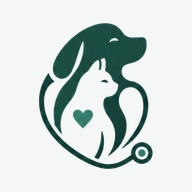
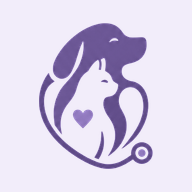
Tema roxo pastel e crédito no rodapé
- Paleta trocada para roxo pastel, mantendo contraste legível nos botões
- Logo do cabeçalho, favicon e ícones de app recoloridos no roxo do tema
- "Desenvolvido por Junior" no rodapé com link para carlindojunior.xyz

Changed region(s): [[0.1875, 0.0938, 0.8125, 0.9062], [0.375, 0.5625, 0.5, 0.6875]]

diff --git a/src/presentation/sections/Footer.tsx b/src/presentation/sections/Footer.tsx
@@ -20,19 +20,32 @@ export function Footer() {
           <br />
           {practice.areas.map((area) => area.name).join(', ')}, BA
         </p>
-        <p>
-          <a href={links.whatsapp()} target="_blank" rel="noopener noreferrer">
-            WhatsApp {contacts.whatsapp.display}
-          </a>
-          <br />
-          <a href={links.instagram} target="_blank" rel="noopener noreferrer">
-            Instagram {contacts.instagram.display}
-          </a>
-          <br />
-          <a href={veterinarian.linkedinUrl} target="_blank" rel="noopener noreferrer">
-            LinkedIn
-          </a>
-        </p>
+        <div>
+          <p>
+            <a href={links.whatsapp()} target="_blank" rel="noopener noreferrer">
+              WhatsApp {contacts.whatsapp.display}
+            </a>
+            <br />
+            <a href={links.instagram} target="_blank" rel="noopener noreferrer">
+              Instagram {contacts.instagram.display}
+            </a>
+            <br />
+            <a href={veterinarian.linkedinUrl} target="_blank" rel="noopener noreferrer">
+              LinkedIn
+            </a>
+          </p>
+          <p className="mt-8 text-sm text-white/60">
+            Desenvolvido por{' '}
+            <a
+              href="https://www.carlindojunior.xyz/"
+              target="_blank"
+              rel="noopener"
+              className="font-semibold underline-offset-3 hover:underline"
+            >
+              Junior
+            </a>
+          </p>
+        </div>
       </div>
     </footer>
   )

diff --git a/src/index.css b/src/index.css
@@ -1,18 +1,19 @@
 @import "tailwindcss";
 
 @theme {
-  --color-paper: #F4F7F6;
-  --color-paper-2: #E7EFEC;
-  --color-ink: #1D2B2F;
-  --color-ink-soft: #4A5B5F;
-  /* Verdes tirados da logo */
-  --color-brand: #24604F;
-  --color-brand-deep: #1B4B40;
-  --color-mint: #8FCBB4;
-  --color-wine: #7E1A2C;
-  --color-blush: #F1B9CF;
+  /* Tema roxo pastel (versão anterior em verde: brand #24604F, brand-deep #1B4B40) */
+  --color-paper: #FAF8FD;
+  --color-paper-2: #F2EDFA;
+  --color-ink: #2B2438;
+  --color-ink-soft: #5F566F;
+  /* Mais claro possível mantendo texto branco legível (contraste ≥ 4.5:1) */
+  --color-brand: #8566B8;
+  --color-brand-deep: #6A5494;
+  --color-mint: #E2D6F7;
+  --color-wine: #9A5A8E;
+  --color-blush: #F8D7EB;
   --color-orchid: #B8478F;
-  --color-line: #CFDCD8;
+  --color-line: #E4DCF0;
 
   --font-display: "Bricolage Grotesque", "Trebuchet MS", sans-serif;
   --font-body: "Figtree", system-ui, sans-serif;

diff --git a/index.html b/index.html
@@ -3,7 +3,7 @@
   <head>
     <meta charset="UTF-8" />
     <meta name="viewport" content="width=device-width, initial-scale=1" />
-    <meta name="theme-color" content="#1B4B40" />
+    <meta name="theme-color" content="#6A5494" />
     <link rel="icon" href="/img/favicon-32.png" sizes="32x32" type="image/png" />
     <link rel="icon" href="/img/favicon-48.png" sizes="48x48" type="image/png" />
     <link rel="icon" href="/img/favicon-96.png" sizes="96x96" type="image/png" />
